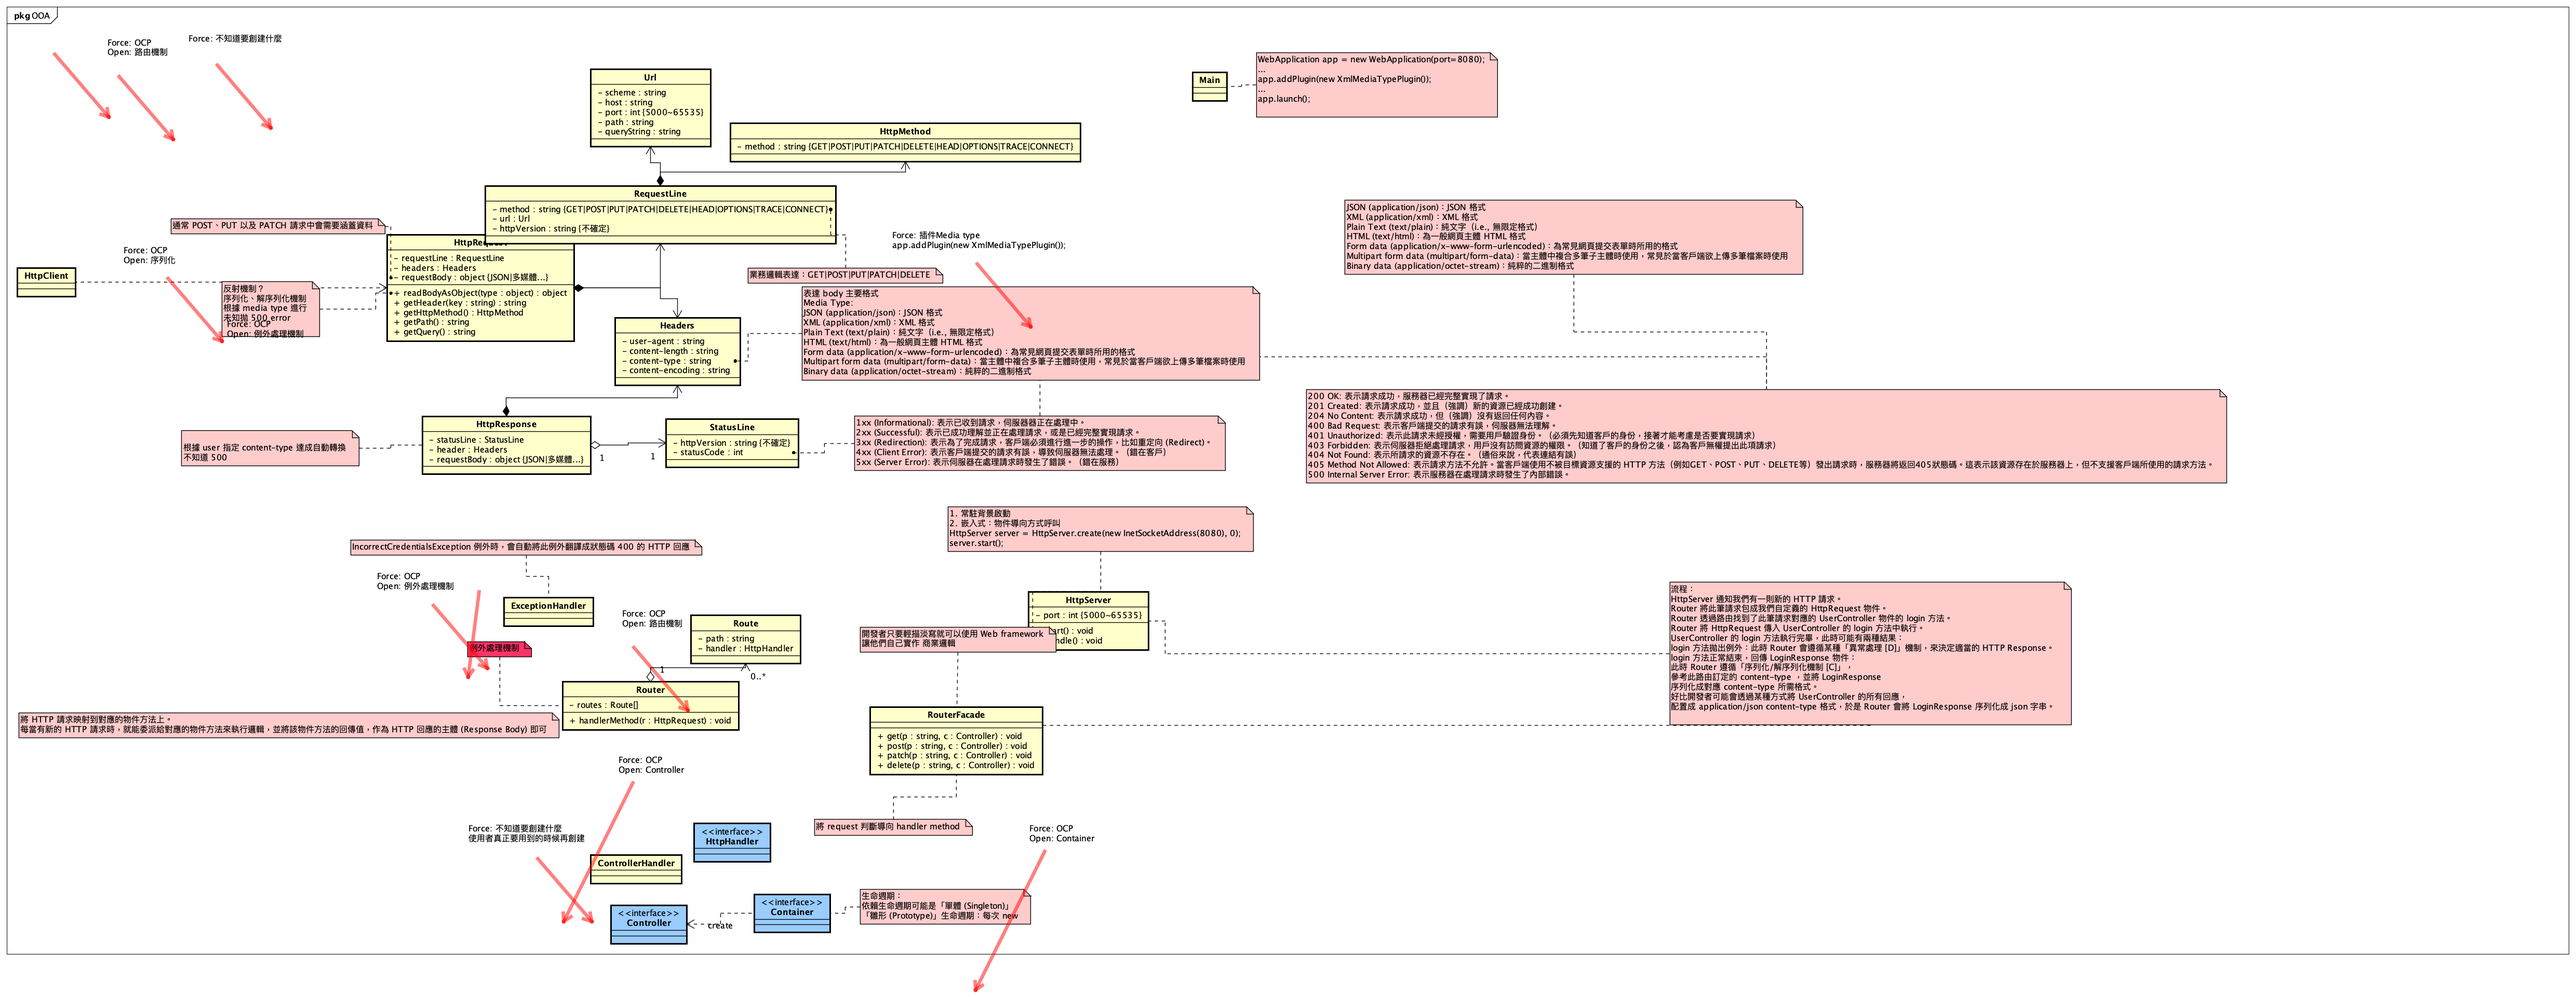
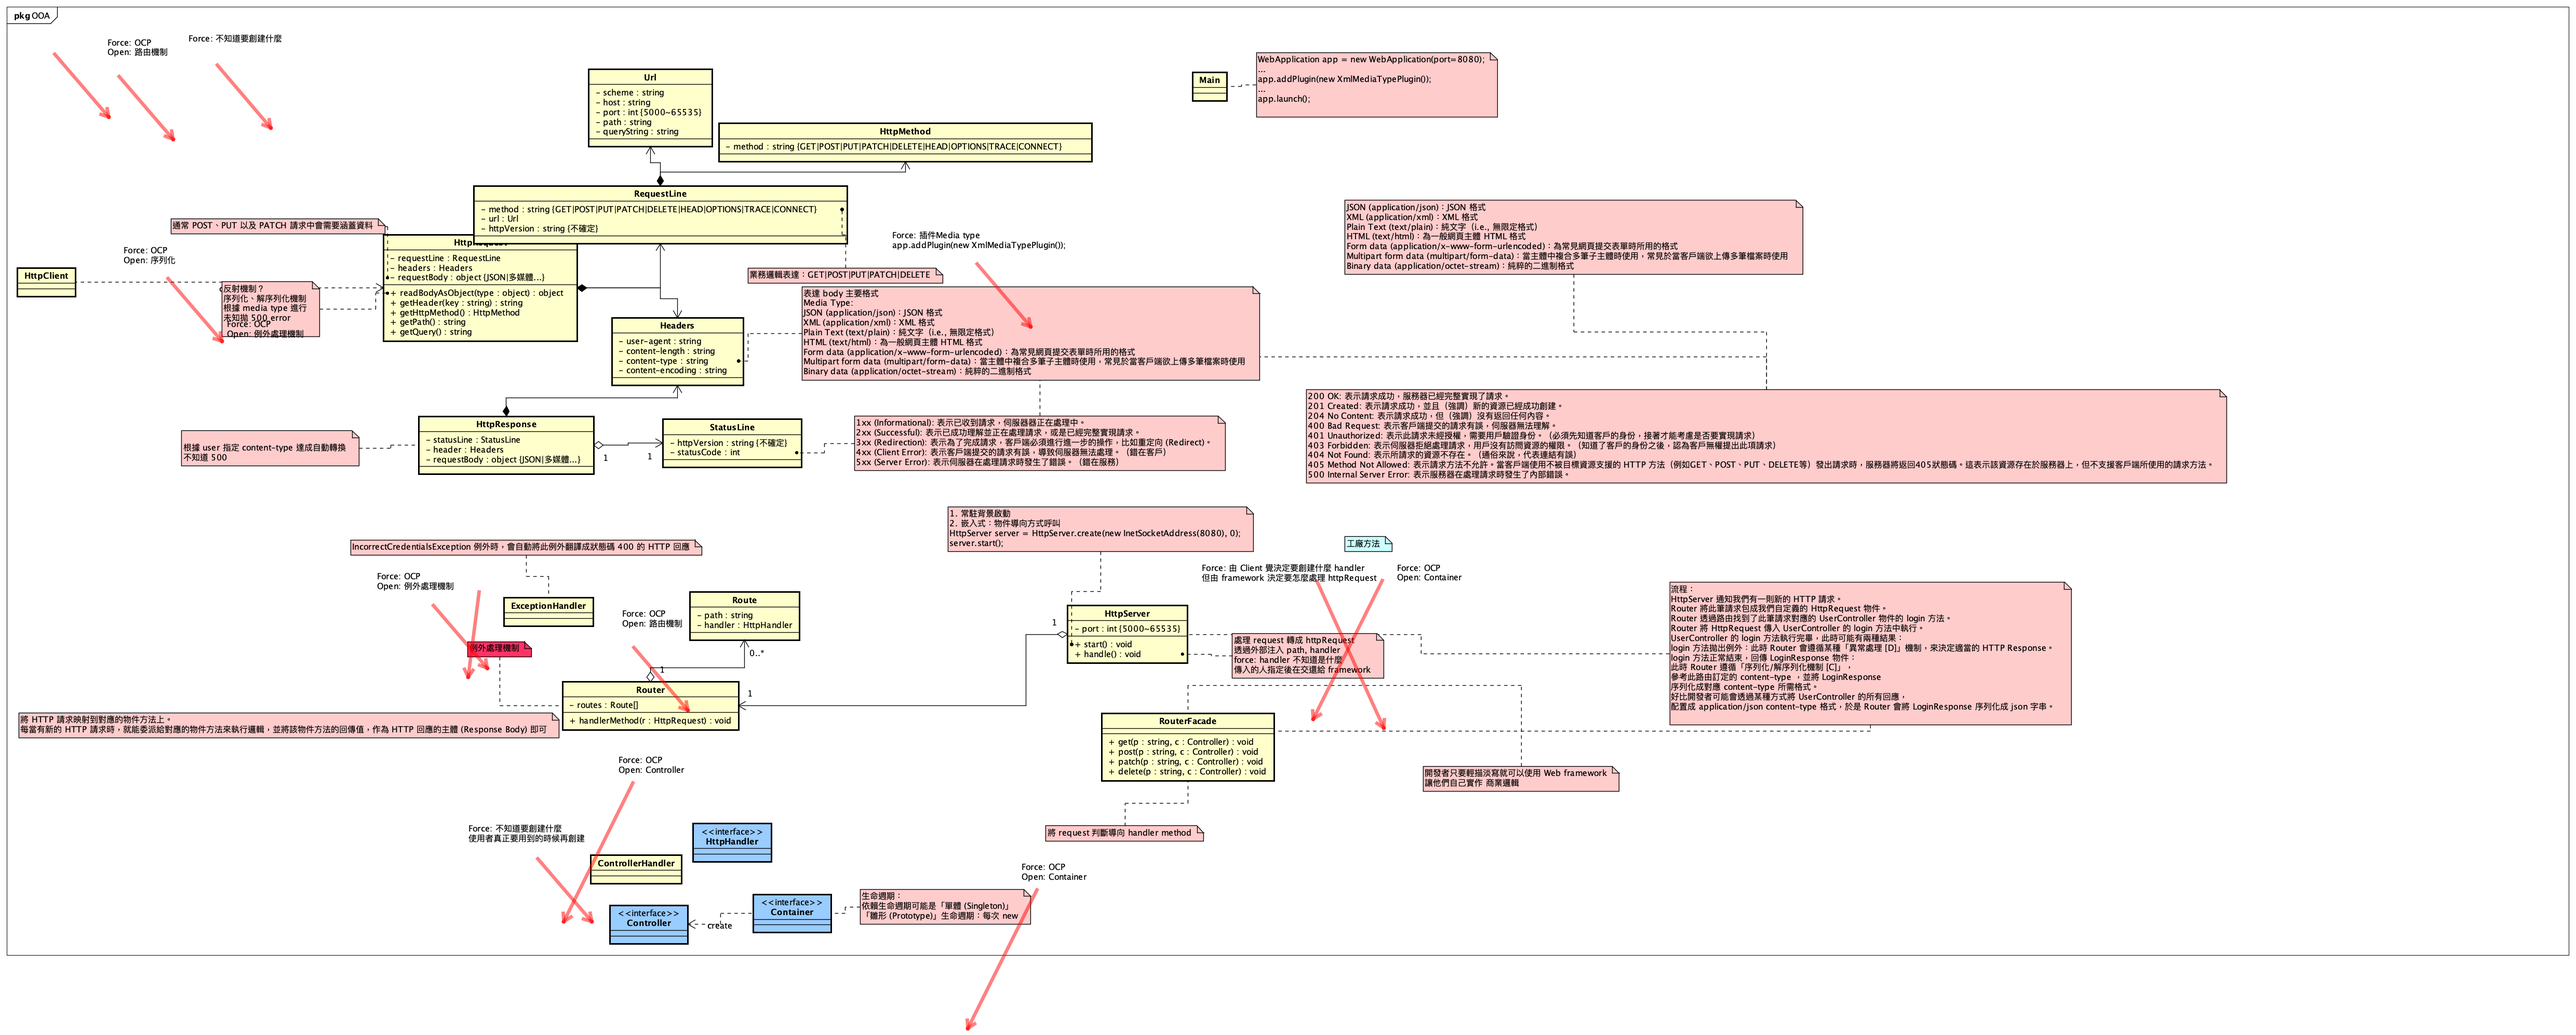
Add BaseController factory

diff --git a/src/main/java/org/example/framework/WebFramework.java b/src/main/java/org/example/framework/WebFramework.java
@@ -1,10 +1,13 @@
 package org.example.framework;
 
-import com.sun.net.httpserver.HttpHandler;
+import com.sun.net.httpserver.HttpExchange;
 import com.sun.net.httpserver.HttpServer;
 
 import java.io.IOException;
 import java.net.InetSocketAddress;
+import java.util.ArrayList;
+import java.util.List;
+import java.util.Map;
 
 public class WebFramework {
 
@@ -30,17 +33,52 @@ public class WebFramework {
         }
     }
 
-    public void addRoute(String path, HttpHandler handler) {
+    public void addRoute(String path, BaseController controller) {
 //        if (!path.startsWith("/")) {
 //            path = "/" + path;
 //        }
 //        if (!path.endsWith("/")) {
 //            path = path + "/";
 //        }
-        router.route(path, handler);
+
+        router.route(path, controller);
     }
 
     public Router getRouter() {
         return router;
+    }
+
+    public void addController(BaseController controller) {
+        controller.setFramework(this);
+    }
+
+    public void handle(HttpExchange exchange) throws IOException {
+        // 將 exchange 轉 http Request object
+        // content type
+        // force ocp
+        String httpVersion = exchange.getProtocol();
+        HttpUrl url = new HttpUrl(
+                exchange.getRequestURI().getScheme(),
+                exchange.getRequestURI().getHost(),
+                exchange.getRequestURI().getPort(),
+                exchange.getRequestURI().getPath(),
+                exchange.getRequestURI().getQuery()
+        );
+        RequestLine requestLine = new RequestLine(exchange.getRequestMethod(), url, httpVersion);
+        List<Header> headers = new ArrayList<>();
+        for (Map.Entry<String, List<String>> entry : exchange.getRequestHeaders().entrySet()) {
+            Header header = new Header(entry.getKey(), entry.getValue());
+            headers.add(header);
+        }
+        RequestBody requestBody = new RequestBody();
+        HttpRequest request = new HttpRequest(requestLine, url, headers, requestBody);
+
+        // todo
+        if ("GET".equals(exchange.getRequestMethod())) {
+            String response = "Hello World!";
+            exchange.sendResponseHeaders(200, response.getBytes().length);
+            exchange.getResponseBody().write(response.getBytes());
+            exchange.getResponseBody().close();
+        }
     }
 }

diff --git a/src/main/java/org/example/Main.java b/src/main/java/org/example/Main.java
@@ -1,12 +1,17 @@
 package org.example;
 
-import org.example.app.controller.TestController;
+import org.example.framework.BaseController;
 import org.example.framework.WebFramework;
 
 public class Main {
     public static void main(String[] args) {
         WebFramework web = new WebFramework(9999);
-        web.addRoute("/test", new TestController());
+        // force 可以讓 Client 客製化 Controller
+        // force ocp
+
+        AppController controller = new AppController();
+        web.addController(controller);
+        web.addRoute("/test", controller);
         web.start();
     }
 }

diff --git a/src/main/java/org/example/framework/BaseController.java b/src/main/java/org/example/framework/BaseController.java
@@ -1,0 +1,23 @@
+package org.example.framework;
+
+import com.sun.net.httpserver.HttpExchange;
+import com.sun.net.httpserver.HttpHandler;
+
+import java.io.IOException;
+
+public class BaseController implements HttpHandler {
+
+    private WebFramework framework;
+
+    public BaseController() {
+    }
+
+    @Override
+    public void handle(HttpExchange exchange) throws IOException {
+        framework.handle(exchange);
+    }
+
+    public void setFramework(WebFramework framework) {
+        this.framework = framework;
+    }
+}

diff --git a/src/main/java/org/example/AppController.java b/src/main/java/org/example/AppController.java
@@ -1,0 +1,6 @@
+package org.example;
+
+import org.example.framework.BaseController;
+
+public class AppController extends BaseController {
+}
